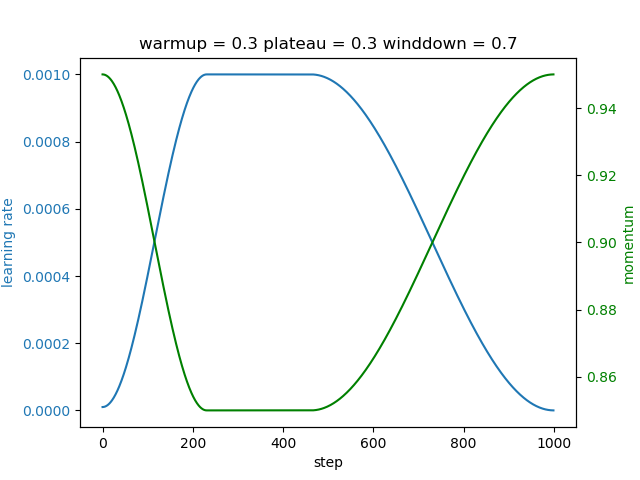
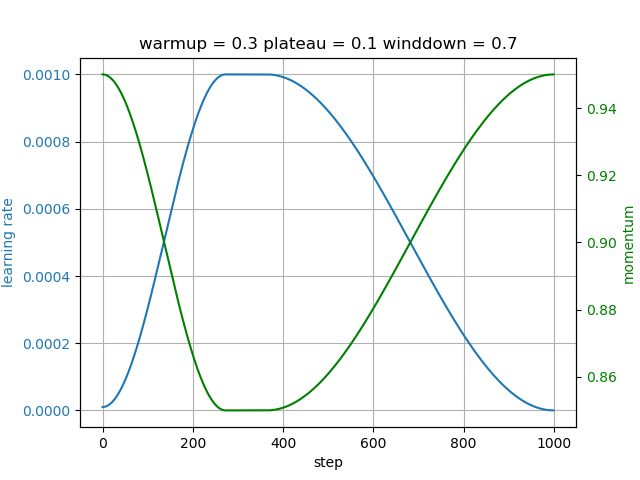
Improve figure

diff --git a/plot.py b/plot.py
@@ -18,7 +18,7 @@ model = ToyModel()
 optimizer = AdamW(model.parameters(), lr=0.01)
 
 WARMUP = 0.3
-PLATEAU = 0.3
+PLATEAU = 0.1
 WINDDOWN = 0.7
 
 N = 1000
@@ -40,6 +40,8 @@ lr = np.array(lr)
 momentum = np.array(momentum)
 
 fig, ax1 = plt.subplots()
+plt.grid()
+
 ax2 = ax1.twinx()
 
 ax1.set_xlabel('step')
